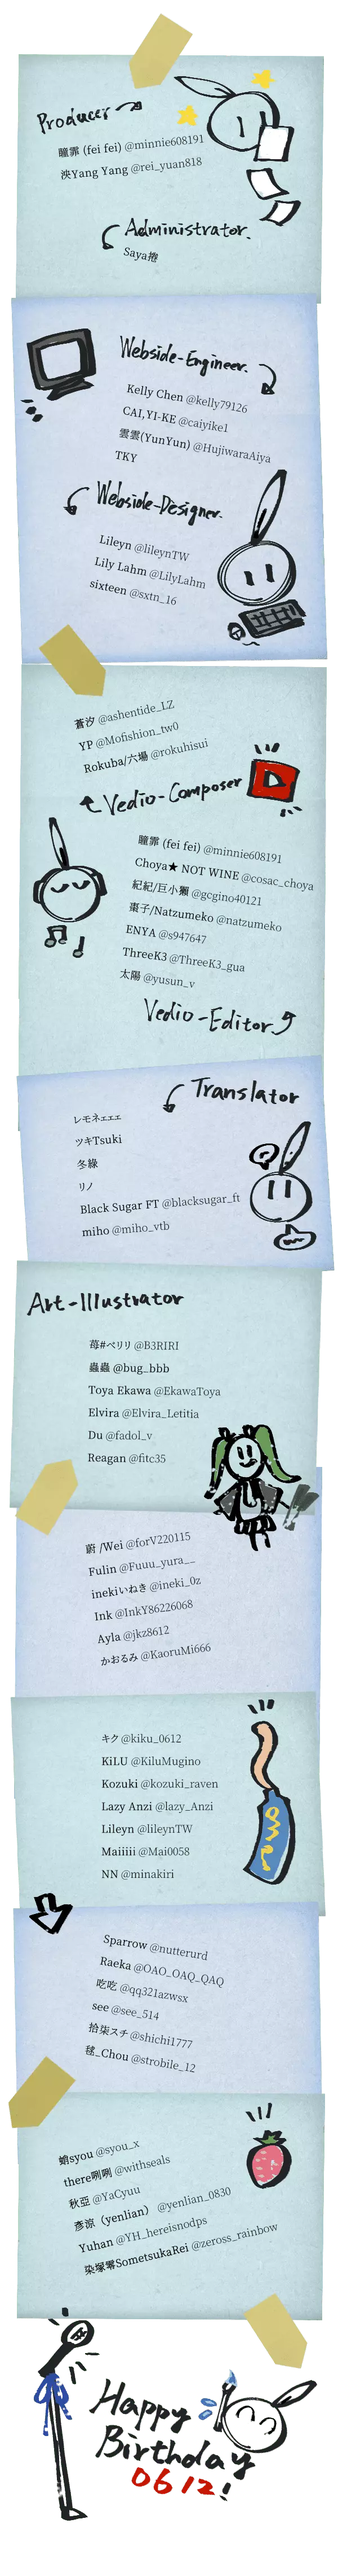
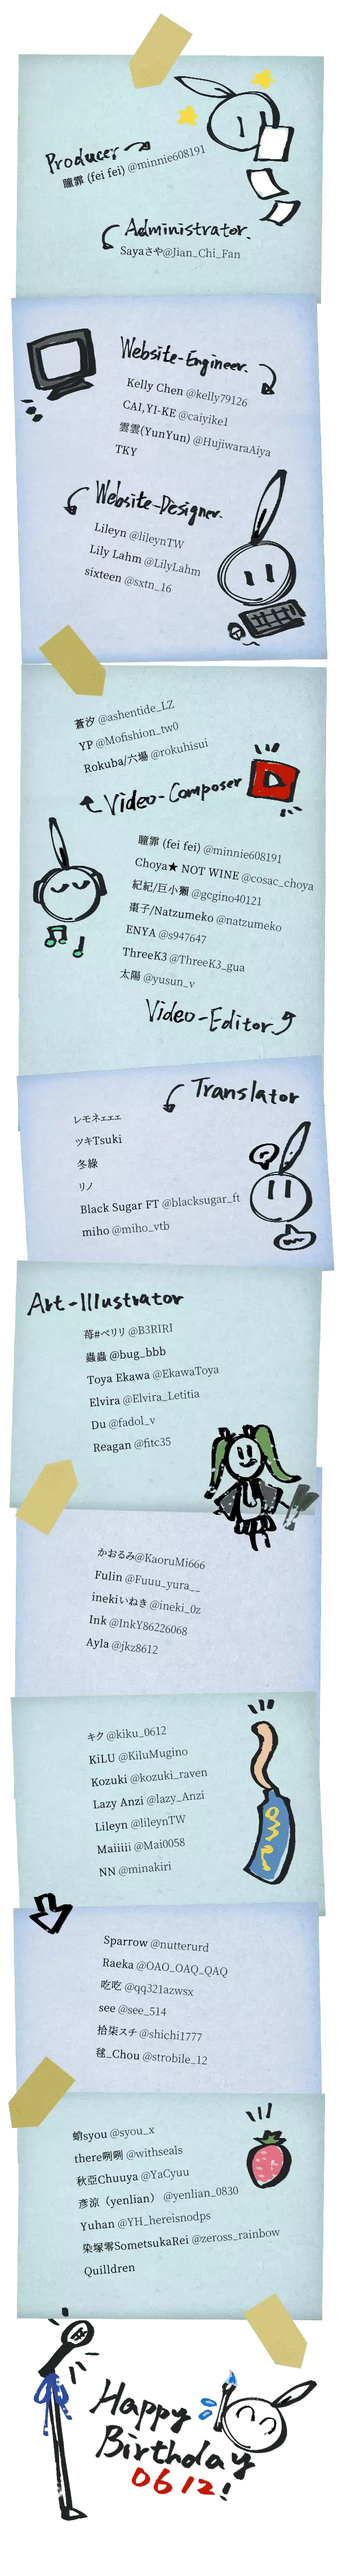
add resource popup, add scroll bar, correct name

diff --git a/index.html b/index.html
@@ -69,40 +69,40 @@
 	/*生成書的內頁*/
 	create_page(34);//內頁頁數
 	insert_page_type1L(1,'Mrya-AYUZ\u00dc @cistus_313 @linty6319_4440_4x3.webp','Lileyn@lileynTW_1x1.webp','水沫沫@ab22722304_1x1.webp','Mrya-AYUZ\u00dc @cistus_313 @linty6319_4440','Lileyn@lileynTW','水沫沫@ab22722304','Raeka.js','./photo/sticker/Lileyn-Ike.png','キク.js','Lileyn-土司.png','Lileyn-羽毛.png',5);
-	insert_page_type1R(2,'YuXiu@Yu3_Xiu4_1x1.webp','晴見@OAO_OAQ_QAQ_1x1.webp','水沫沫_@ab22722304(3)_4x3.webp','YuXiu@Yu3_Xiu4','晴見@OAO_OAQ_QAQ','水沫沫_@ab22722304(3)','moku.js','雲雲(YunYun).js','苺_ベリリ.js','Lileyn-蛋糕.png','Lileyn-漢堡.png');
+	insert_page_type1R(2,'YuXiu@Yu3_Xiu4_1x1.webp','晴見@OAO_OAQ_QAQ_1x1.webp','水沫沫_@ab22722304(3)_4x3.webp','YuXiu@Yu3_Xiu4','晴見@OAO_OAQ_QAQ','水沫沫@ab22722304','moku.js','雲雲(YunYun).js','苺_ベリリ.js','Lileyn-蛋糕.png','Lileyn-漢堡.png');
 	insert_page_type2L(3,'Linnea_@linnea_vaka (2)_4x3.webp','Mint Cocoa_@ss098343 (1)_4x3.webp','月牙_@3vO88k6LyhW4uG0 (3)_4x3.webp','./photo/sticker/晴見-ike貼紙01.webp','シン_@natsugawaryo (1)_4x3.webp','Linnea@linnea_vaka','Mint Cocoa@ss098343','月牙@3vO88k6LyhW4uG0','null','シン@natsugawaryo',4);
 	insert_page_type2R(4,'Xinnn_X(2)_4x3.webp','櫻狩_@ninpigi(2)_4x3.webp','冷陽_Hiyayou_@lovemoon779_4x3.webp','Mrya-AYUZ\u00dc @cistus_313 @linty6319_4575_4x3.webp','姿君@kelly79126-01_4x3.webp','Xinnn_X','櫻狩@ninpigi','冷陽_Hiyayou@lovemoon779','Mrya-AYUZ\u00dc @cistus_313 @linty6319_4575','姿君@kelly79126');
-	insert_page_type1L(5,'紫凌煙_@AmethystDoris (3)_4x3.webp','Malenda@MalendaLiu_1x1.webp','紀紀@gcgino40121-01_1x1.webp','紫凌煙_@AmethystDoris (3)','Malenda@MalendaLiu','紀紀@gcgino40121-01','poko.js','蒼弒.js','太陽.js','咧咧-羽毛01.png','咧咧-羽毛02.png');
-	insert_page_type1R(6,'Yuki❆Jessica@yuki27281_1x1.webp','Mint Cocoa@ss098343_1x1.webp','Winni_@Winni03011 (2)_4x3.webp','Yuki❆Jessica@yuki27281','Mint Cocoa@ss098343','Winni_@Winni03011 (2)','inekiいねき.js','瞳霏 (fei fei).js','拾柒スチ.js','咧咧-羽毛03.png','咧咧-羽毛05.png');
+	insert_page_type1L(5,'紫凌煙_@AmethystDoris (3)_4x3.webp','Malenda@MalendaLiu_1x1.webp','紀紀@gcgino40121-01_1x1.webp','紫凌煙@AmethystDoris ','Malenda@MalendaLiu','紀紀@gcgino40121','poko.js','蒼弒.js','太陽.js','咧咧-羽毛01.png','咧咧-羽毛02.png');
+	insert_page_type1R(6,'Yuki❆Jessica@yuki27281_1x1.webp','Mint Cocoa@ss098343_1x1.webp','Winni_@Winni03011 (2)_4x3.webp','Yuki❆Jessica@yuki27281','Mint Cocoa@ss098343','Winni@Winni03011','inekiいねき.js','瞳霏 (fei fei).js','拾柒スチ.js','咧咧-羽毛03.png','咧咧-羽毛05.png');
 	insert_page_type2L(7,'小琉_@e136387 (2)_4x3.webp','晴見@OAO_OAQ_QAQ-13_4x3.webp','独 白_@Pamomi06-13_4x3.webp','Mrya-AYUZ\u00dc @cistus_313 @linty6319_4508_4x3.webp','棗子@natzumeko-3_4x3.webp','小琉@e136387','晴見@OAO_OAQ_QAQ','独 白@Pamomi06','Mrya-AYUZ\u00dc @cistus_313 @linty6319_4508','棗子@natzumeko');
 	insert_page_type2R(8,'strawberry_cake_4x3.webp','smile P_@enyi8423 (2)_4x3.webp','晴見@OAO_OAQ_QAQ-16_4x3.webp','Mrya-AYUZ\u00dc  @cistus_313 @linty6319_4730_4x3.webp','./photo/sticker/十六-貼紙-2.webp','strawberry_cake','smile P@enyi8423','晴見@OAO_OAQ_QAQ','Mrya-AYUZ\u00dc  @cistus_313 @linty6319_4730','null',5);
-	insert_page_type1L(9,'飛ちゃん_@tobieveland_4x3.webp','冰笛@wang37002350 - Winnie Wang_1x1.webp','NaomiW@NaomiWa06(1)_1x1.webp','飛ちゃん_@tobieveland','冰笛@wang37002350 - Winnie Wang','NaomiW@NaomiWa06(1)','Sayaさや.js','吃吃.js','LazyAnzi.js','晴見-Cake.png','晴見-cans.png');
-	insert_page_type1R(10,'TKY_1x1.webp','Choya★ NOT WINE @cosac_choya (01)_1x1.webp','Fish_Hung_X (2)_4x3.webp','TKY','Choya★ NOT WINE @cosac_choya (01)','Fish_Hung_X (2)','AZE.js','燈あかり.js','Lileyn.js','晴見-Partyhat.png','晴見-Presentbox.png');
+	insert_page_type1L(9,'飛ちゃん_@tobieveland_4x3.webp','冰笛@wang37002350 - Winnie Wang_1x1.webp','NaomiW@NaomiWa06(1)_1x1.webp','飛ちゃん@tobieveland','冰笛@wang37002350 - Winnie Wang','NaomiW@NaomiWa06','Sayaさや.js','吃吃.js','LazyAnzi.js','晴見-Cake.png','晴見-cans.png');
+	insert_page_type1R(10,'TKY_1x1.webp','Choya★ NOT WINE @cosac_choya (01)_1x1.webp','Fish_Hung_X (2)_4x3.webp','TKY','Choya★ NOT WINE @cosac_choya','Fish_Hung_X','AZE.js','燈あかり.js','Lileyn.js','晴見-Partyhat.png','晴見-Presentbox.png');
 	insert_page_type2L(11,'Winni_@Winni03011 (1)_4x3.webp','Hazuki_@lavender_wish (3)_4x3.webp','./photo/sticker/夕蘭-IKE.webp','独 白_@Pamomi06-06_4x3.webp','櫻狩_@ninpigi(1)_4x3.webp','Winni@Winni03011','Hazuki@lavender_wish','null','独 白@Pamomi06','櫻狩@ninpigi',3);
 	insert_page_type2R(12,'小琉_@e136387 (1)_4x3.webp','𝑳𝒐𝒓𝒓𝒂𝒊𝒏𝒆 𝑯𝒘𝒂𝒏𝒈_@Lorraine_1122_(2)_4x3.webp','いむ_@seed90186_4x3.webp','晴見@OAO_OAQ_QAQ-02_4x3.webp','晴見@OAO_OAQ_QAQ-06_4x3.webp','小琉@e136387','𝑳𝒐𝒓𝒓𝒂𝒊𝒏𝒆 𝑯𝒘𝒂𝒏𝒈@Lorraine_1122_','いむ@seed90186','晴見@OAO_OAQ_QAQ','晴見@OAO_OAQ_QAQ');
-	insert_page_type1L(13,'Choya★ NOT WINE @cosac_choya-02_4x3.webp','Winni@Winni03011_1x1.webp','Maui@Maui_HC_1x1.webp','Choya★ NOT WINE @cosac_choya-02','Winni@Winni03011','Maui@Maui_HC','Malenda.js','ツキTsuki.js','Anitaaaaa.js','安仔-蛋糕01.png','安仔-魚子醬吐司01.png');
-	insert_page_type1R(14,'モコ_@moko0309_1x1.webp','安仔@lazy_Anzi01 - Vivienne Lu_1x1.webp','はね_@feather41230(1)_4x3.webp','モコ_@moko0309','安仔@lazy_Anzi01 - Vivienne Lu','はね_@feather41230(1)','./photo/sticker/安仔-Ike 櫻花Q版.webp','Mota.js','there咧咧.js','安仔-羽毛01.png','Reagan-起司.png',4);
+	insert_page_type1L(13,'Choya★ NOT WINE @cosac_choya-02_4x3.webp','Winni@Winni03011_1x1.webp','Maui@Maui_HC_1x1.webp','Choya★ NOT WINE @cosac_choya','Winni@Winni03011','Maui@Maui_HC','Malenda.js','ツキTsuki.js','Anitaaaaa.js','安仔-蛋糕01.png','安仔-魚子醬吐司01.png');
+	insert_page_type1R(14,'モコ_@moko0309_1x1.webp','安仔@lazy_Anzi01 - Vivienne Lu_1x1.webp','はね_@feather41230(1)_4x3.webp','モコ@moko0309','安仔@lazy_Anzi01','はね@feather41230','./photo/sticker/安仔-Ike 櫻花Q版.webp','Mota.js','there咧咧.js','安仔-羽毛01.png','Reagan-起司.png',4);
 	insert_page_type2L(15,'独 白_@Pamomi06-01_4x3.webp','Nii_@fallorwinter (1)_4x3.webp','moku_@a3895956 (3)_4x3.webp','Malenda_@MalendaLiu (5)_4x3.webp','Mrya-AYUZ\u00dc @cistus_313 @linty6319_4447_4x3.webp','独 白@Pamomi06','Nii@fallorwinter','moku@a3895956','Malenda@MalendaLiu','Mrya-AYUZ\u00dc @cistus_313 @linty6319_4447');
 	insert_page_type2R(16,'sous rature_@_sousrature_4x3.webp','Malenda_@MalendaLiu (11)_4x3.webp','あおいSerene_x (3)_4x3.webp','Malenda_@MalendaLiu (3)_4x3.webp','晴見@OAO_OAQ_QAQ-04_4x3.webp','sous rature@_sousrature','Malenda@MalendaLiu','あおいSerene_x','Malenda@MalendaLiu','晴見@OAO_OAQ_QAQ');
-	insert_page_type1L(17,'月牙_@3vO88k6LyhW4uG0 (1)_4x3.webp','あおいSerene_1x1.webp','拾柒@shichi1777_1x1.webp','月牙_@3vO88k6LyhW4uG0 (1)','あおいSerene','拾柒@shichi1777','蒼汐.js','Felicia.js','maomaolin.js','Lileyn-土司.png','Lileyn-羽毛.png');
-	insert_page_type1R(18,'NaomiW@NaomiWa06_1x1.webp','Malenda@MalendaLiu__1x1.webp','Masako_@moonsatan_4x3.webp','NaomiW@NaomiWa06','Malenda@MalendaLiu_','Masako_@moonsatan','KellyChen.js','LilyLahm.js','ChoyaNOTWINE.js','Lileyn-蛋糕.png','Lileyn-漢堡.png');
+	insert_page_type1L(17,'月牙_@3vO88k6LyhW4uG0 (1)_4x3.webp','あおいSerene_1x1.webp','拾柒@shichi1777_1x1.webp','月牙@3vO88k6LyhW4uG0','あおいSerene','拾柒@shichi1777','蒼汐.js','Felicia.js','maomaolin.js','Lileyn-土司.png','Lileyn-羽毛.png');
+	insert_page_type1R(18,'NaomiW@NaomiWa06_1x1.webp','Malenda@MalendaLiu__1x1.webp','Masako_@moonsatan_4x3.webp','NaomiW@NaomiWa06','Malenda@MalendaLiu','Masako@moonsatan','KellyChen.js','LilyLahm.js','ChoyaNOTWINE.js','Lileyn-蛋糕.png','Lileyn-漢堡.png');
 	insert_page_type2L(19,'ThreeK3@ThreeK3_gua-4_4x3.webp','lingyu_X_4x3.webp','櫻狩_@ninpigi (5)_4x3.webp','moku_@a3895956 (2)_4x3.webp','Masako_@moonsatan (2)_4x3.webp','ThreeK3@ThreeK3_gua','lingyu_X','櫻狩@ninpigi','moku@a3895956','Masako@moonsatan');
 	insert_page_type2R(20,'Mrya-AYUZ\u00dc  @cistus_313 @linty6319_4552_4x3.webp','Malenda_@MalendaLiu (8)_4x3.webp','Malenda_@MalendaLiu (2)_4x3.webp','./photo/sticker/Reagan-Ike.webp','Mrya-AYUZ\u00dc  @cistus_313 @linty6319_4732_4x3.webp','Mrya-AYUZ\u00dc  @cistus_313 @linty6319_4552','Malenda@MalendaLiu','Malenda@MalendaLiu','null','Mrya-AYUZ\u00dc  @cistus_313 @linty6319_4732',4);
-	insert_page_type1L(21,'𝑳𝒐𝒓𝒓𝒂𝒊𝒏𝒆 𝑯𝒘𝒂𝒏𝒈_@Lorraine_1122_(3)_4x3.webp','maomao lin@mandy2317896_(1)_1x1.webp','AZE@AZE272727_1x1.webp','𝑳𝒐𝒓𝒓𝒂𝒊𝒏𝒆 𝑯𝒘𝒂𝒏𝒈_@Lorraine_1122_(3)','maomao lin@mandy2317896_(1)','AZE@AZE272727','モコ.js','CAI_YI-KE.js','棗子_Natzumeko.js','咧咧-羽毛01.png','咧咧-羽毛02.png');
-	insert_page_type1R(22,'棗子@natzumeko-4_1x1.webp','小星@shingoaoi_1x1.webp','独 白_@Pamomi06-11_4x3.webp','棗子@natzumeko-4','小星@shingoaoi','独 白_@Pamomi06-11','NN.js','Du.js','染塚零SometsukaRei.js','咧咧-羽毛03.png','咧咧-羽毛05.png');
+	insert_page_type1L(21,'𝑳𝒐𝒓𝒓𝒂𝒊𝒏𝒆 𝑯𝒘𝒂𝒏𝒈_@Lorraine_1122_(3)_4x3.webp','maomao lin@mandy2317896_(1)_1x1.webp','AZE@AZE272727_1x1.webp','𝑳𝒐𝒓𝒓𝒂𝒊𝒏𝒆 𝑯𝒘𝒂𝒏𝒈@Lorraine_1122_','maomao lin@mandy2317896','AZE@AZE272727','モコ.js','CAI_YI-KE.js','棗子_Natzumeko.js','咧咧-羽毛01.png','咧咧-羽毛02.png');
+	insert_page_type1R(22,'棗子@natzumeko-4_1x1.webp','小星@shingoaoi_1x1.webp','独 白_@Pamomi06-11_4x3.webp','棗子@natzumeko','小星@shingoaoi','独 白@Pamomi06','NN.js','Du.js','染塚零SometsukaRei.js','咧咧-羽毛03.png','咧咧-羽毛05.png');
 	insert_page_type2L(23,'ThreeK3@ThreeK3_gua-3_4x3.webp','ThreeK3@ThreeK3_gua-1_4x3.webp','VivianHui_@st854321_4x3.webp','./photo/sticker/茯苓-ike.webp','Nii_@fallorwinter (2)_4x3.webp','ThreeK3@ThreeK3_gua','ThreeK3@ThreeK3_gua','VivianHui@st854321','null','Nii@fallorwinter',4);
 	insert_page_type2R(24,'Melon_@mayday_melon (1)_4x3.webp','Vivian Hui_@st854321 (4)_4x3.webp','Mrya-AYUZ\u00dc  @cistus_313 @linty6319_4556_4x3.webp','あおいSerene_x (2)_4x3.webp','紫凌煙_@AmethystDoris (2)_4x3.webp','Melon@mayday_melon','Vivian Hui@st854321','Mrya-AYUZ\u00dc  @cistus_313 @linty6319_4556','あおいSerene_x','紫凌煙@AmethystDoris');
-	insert_page_type1L(25,'晴見@OAO_OAQ_QAQ-05_4x3.webp','Choya★ NOT WINE@cosac_choya_1x1.webp','瞳霏 fei fei@minnie608191_1x1.webp','晴見@OAO_OAQ_QAQ-05','Choya★ NOT WINE@cosac_choya','瞳霏 fei fei@minnie608191','kanal.js','Maui.js','Ting.js','晴見-Cake.png','晴見-cans.png');
-	insert_page_type1R(26,'Kelly Chen@kelly79126_1x1.webp','Karu@jiandan87840102_1x1.webp','夏怜かれん_X(2)_4x3.webp','Kelly Chen@kelly79126','Karu@jiandan87840102','夏怜かれん_X(2)','./photo/sticker/晴見-ikey貓貓寫字01.webp','Maiiiii.js','又双木-kuwa-.js','晴見-Partyhat.png','晴見-Presentbox.png',4);
+	insert_page_type1L(25,'晴見@OAO_OAQ_QAQ-05_4x3.webp','Choya★ NOT WINE@cosac_choya_1x1.webp','瞳霏 fei fei@minnie608191_1x1.webp','晴見@OAO_OAQ_QAQ','Choya★ NOT WINE@cosac_choya','瞳霏 fei fei@minnie608191','kanal.js','Maui.js','Ting.js','晴見-Cake.png','晴見-cans.png');
+	insert_page_type1R(26,'Kelly Chen@kelly79126_1x1.webp','Karu@jiandan87840102_1x1.webp','夏怜かれん_X(2)_4x3.webp','Kelly Chen@kelly79126','Karu@jiandan87840102','夏怜かれん_X','./photo/sticker/晴見-ikey貓貓寫字01.webp','Maiiiii.js','又双木-kuwa-.js','晴見-Partyhat.png','晴見-Presentbox.png',4);
 	insert_page_type2L(27,'リノ-03_4x3.webp','安仔@lazy_Anzi-02_4x3.webp','晴見@OAO_OAQ_QAQ-12_4x3.webp','独 白_@Pamomi06-04_4x3.webp','./photo/sticker/安仔-Ike01.webp','リノ','安仔@lazy_Anzi','晴見@OAO_OAQ_QAQ','独 白@Pamomi06','null',5);
 	insert_page_type2R(28,'Xinnn_X(1)_4x3.webp','安仔@lazy_Anzi-03_4x3.webp','晴見@OAO_OAQ_QAQ-01_4x3.webp','櫻狩_@ninpigi (3)_4x3.webp','棗子@natzumeko-2_4x3.webp','Xinnn_X','安仔@lazy_Anzi','晴見@OAO_OAQ_QAQ','櫻狩@ninpigi','棗子@natzumeko');
-	insert_page_type1L(29,'Malenda_@MalendaLiu (9)_4x3.webp','幻楓YP@Mofishion_tw0_1x1.webp','moku@a3895956_1x1.webp','Malenda_@MalendaLiu (9)','幻楓YP@Mofishion_tw0','moku@a3895956','Quilldren.js','Karu.js','ThreeK3.js','安仔-蛋糕01.png','安仔-魚子醬吐司01.png');
+	insert_page_type1L(29,'Malenda_@MalendaLiu (9)_4x3.webp','幻楓YP@Mofishion_tw0_1x1.webp','moku@a3895956_1x1.webp','Malenda@MalendaLiu','幻楓YP@Mofishion_tw0','moku@a3895956','Quilldren.js','Karu.js','ThreeK3.js','安仔-蛋糕01.png','安仔-魚子醬吐司01.png');
 	insert_page_type1R(30,'棗子＠natzumeko_1x1.webp','quilldren_1x1.webp','Mrya-AYUZ\u00dc  @cistus_313 @linty6319_4516_4x3.webp','棗子＠natzumeko','quilldren','Mrya-AYUZ\u00dc  @cistus_313 @linty6319_4516','アリス.js','ToyaEkawa.js','小光Gloria.js','安仔-羽毛01.png','Reagan-起司.png');
 
-	insert_page_type2L(31,'Malenda_@MalendaLiu (7)_4x3.webp','はね_@feather41230(3)_4x3.webp','晴見@OAO_OAQ_QAQ-07_4x3.webp','シン_@natsugawaryo (2)_4x3.webp','𝑳𝒐𝒓𝒓𝒂𝒊𝒏𝒆 𝑯𝒘𝒂𝒏𝒈_@Lorraine_1122_(4)_4x3.webp','Malenda@MalendaLiu','はね@feather41230','晴見@OAO_OAQ_QAQ','シン@natsugawaryo','𝑳𝒐𝒓𝒓𝒂𝒊𝒏𝒆 𝑯𝒘𝒂𝒏𝒈@Lorraine_1122');
+	insert_page_type2L(31,'Malenda_@MalendaLiu (7)_4x3.webp','はね_@feather41230(3)_4x3.webp','晴見@OAO_OAQ_QAQ-07_4x3.webp','シン_@natsugawaryo (2)_4x3.webp','𝑳𝒐𝒓𝒓𝒂𝒊𝒏𝒆 𝑯𝒘𝒂𝒏𝒈_@Lorraine_1122_(4)_4x3.webp','Malenda@MalendaLiu','はね@feather41230','晴見@OAO_OAQ_QAQ','シン@natsugawaryo','𝑳𝒐𝒓𝒓𝒂𝒊𝒏𝒆 𝑯𝒘𝒂𝒏𝒈@Lorraine_1122_');
 	insert_page_type2R(32,'./photo/sticker/夕蘭-ike坐姿.webp','Linnea_@linnea_vaka (1)_4x3.webp','Hazuki_@lavender_wish (1)_4x3.webp','Yuki❆Jessica_yuki27281 (2)_4x3.webp','極沫@jimo0604_4x3.webp','null','Linnea@linnea_vaka','Hazuki@lavender_wish','Yuki❆Jessica_yuki27281','極沫@jimo0604',1);
 
-	insert_page_type1L(33,'Maki_X (3)_4x3.webp','独白@Pamomi06_1x1.webp','吃吃 @qq321azwsx_tw_1x1.webp','Maki_X (3)','独白@Pamomi06','吃吃 @qq321azwsx_tw','Black Sugar FT.js','Miru.js','毬_Chou.js','Lileyn-土司.png','Lileyn-羽毛.png');
+	insert_page_type1L(33,'Maki_X (3)_4x3.webp','独白@Pamomi06_1x1.webp','吃吃 @qq321azwsx_tw_1x1.webp','Maki_X','独白@Pamomi06','吃吃 @qq321azwsx_tw','Black Sugar FT.js','Miru.js','毬_Chou.js','Lileyn-土司.png','Lileyn-羽毛.png');
 	insert_page_type1R(34,'maomao lin@mandy2317896_1x1.webp','又双木-kuwa-@kuwame_3653_1x1.webp','Mrya-AYUZ\u00dc  @cistus_313 @linty6319_4820_4x3.webp','maomao lin@mandy2317896','又双木-kuwa-@kuwame_3653','Mrya-AYUZ\u00dc  @cistus_313 @linty6319_4820','Ayla.js','Rokuba_六場.js','NaomiW.js','Lileyn-蛋糕.png','Lileyn-漢堡.png');
 
 	/*書名頁、尾頁*/
@@ -197,5 +197,6 @@
 	});
 
 	popup_credits();
+	popup_resource();
 
 </script>

diff --git a/css_popup_Phone.css b/css_popup_Phone.css
@@ -14,11 +14,20 @@
 		height: 107vw;
 		margin: 0px auto;
 		overflow: auto;
-		padding-left: 3vw
+		padding-left: 3vw;
+		display: flex;
+		flex-direction: column;
 	}
 	.credits-inside {
 		width: 75vw;
 		height: auto;
+		margin: auto;
+	}
+	.resource-inside {
+		margin: auto;
+		width: 67vw;
+		height: auto;
+		transform: rotate(7deg); 
 	}
 	.popup-article-long-bg {
 		position: relative;
@@ -48,14 +57,14 @@
 		font-size: 0.7rem;
 		padding-left: 10vw;
 		padding-right: 10vw;
-		padding-top: 9vw;
+		margin-top: 9vw;
 		text-align:justify;
 		word-wrap: break-word;
 		-webkit-hyphens: auto;
 		-moz-hyphens: auto;
 		-ms-hyphens: auto;
 		hyphens: auto;
-		overflow:hidden;
+		overflow: auto;
 	}
 	.popup-article-author {
 		/* color: #FDDA8E; */
@@ -63,6 +72,7 @@
 		text-align: center;
 		font-family: Georgia;
 		font-size: 0.8rem;
+		padding-top: 10vw;
 		padding-left: 7vw;
 		padding-right: 7vw;
 		padding-bottom: 5vw;

diff --git a/css_popup_PC.css b/css_popup_PC.css
@@ -14,11 +14,20 @@
 		height: 80vh;
 		margin: 0px auto;
 		overflow: auto;
-		padding-left: 3vh
+		padding-left: 3vh;
+		display: flex;
+		flex-direction: column;
 	}
 	.credits-inside {
 		width: 56.5vh;
 		height: auto;
+		margin: auto;
+	}
+	.resource-inside {
+		margin: auto;
+		width: 50vh;
+		height: auto;
+		transform: rotate(7deg); 
 	}
 	.popup-article-long-bg {
 		position: relative;
@@ -48,14 +57,14 @@
 		font-size: 1.8vh;
 		padding-left: 7vh;
 		padding-right: 7vh;
-		padding-top: 6vh;
+		margin-top: 6vh;
 		text-align:justify;
 		word-wrap: break-word;
 		-webkit-hyphens: auto;
 		-moz-hyphens: auto;
 		-ms-hyphens: auto;
 		hyphens: auto;
-		overflow:hidden;
+		overflow: auto;
 	}
 	.popup-article-author {
 		/* color: #FDDA8E; */
@@ -63,6 +72,7 @@
 		text-align: center;
 		font-family: Georgia;
 		font-size: 1.8vh;
+		padding-top: 5vh;
 		padding-left: 5vh;
 		padding-right: 5vh;
 		padding-bottom: 5vh;

diff --git a/popup.js b/popup.js
@@ -16,6 +16,24 @@ function popup_credits() {
     });
 }
 
+function popup_resource() {
+    $('#resources').on('click', function(event) {
+        event.stopPropagation();
+    });
+
+    $('#resources').magnificPopup({
+        items: {
+            src: `<div class="credits-bg">
+                    <div class="credits-container">
+                        <img src="./img/resource-popup.webp" class="resource-inside"/>
+                    </div>
+                </div>`,
+            type: 'inline'
+        },
+        closeMarkup: '<button title="%title%" type="button" class="mfp-close" style="top: -35px; right: -10px"><img src="./img/pushpin-close.webp" style="width: 35px; height:auto; pointer-events:none;"></button>',
+    });
+}
+
 function popup_article(text, stc){
     requirejs([text], function(text) {
         if(text.Len == 1){

diff --git a/page.css b/page.css
@@ -98,7 +98,7 @@
 		-moz-hyphens: auto;
 		-ms-hyphens: auto;
 		hyphens: auto;
-		overflow:hidden;
+		overflow:auto;
 	}
 	.grid_author_long_type1{
 		font-size: 0.7rem;
@@ -200,7 +200,7 @@
 		-moz-hyphens: auto;
 		-ms-hyphens: auto;
 		hyphens: auto;
-		overflow:hidden;
+		overflow:auto;
 	}
 	.grid_author_long_type1{
 		font-size: 0.5rem;
@@ -435,14 +435,14 @@
 
 
 .grid_name_type2{
-	font-size: 0.5rem;
+	/* font-size: 0.5rem;
 	font-family: Georgia;
 	white-space: nowrap;
 	text-overflow: ellipsis;
-	overflow: hidden;
-	/* font-size: 0.5rem;
+	overflow: hidden; */
+	font-size: 0.5rem;
 	font-style: italic;
-	font-family: Verdana;*/
+	font-family: Verdana;
 	display: flex;
     justify-content: left;
 	flex-wrap: wrap;
